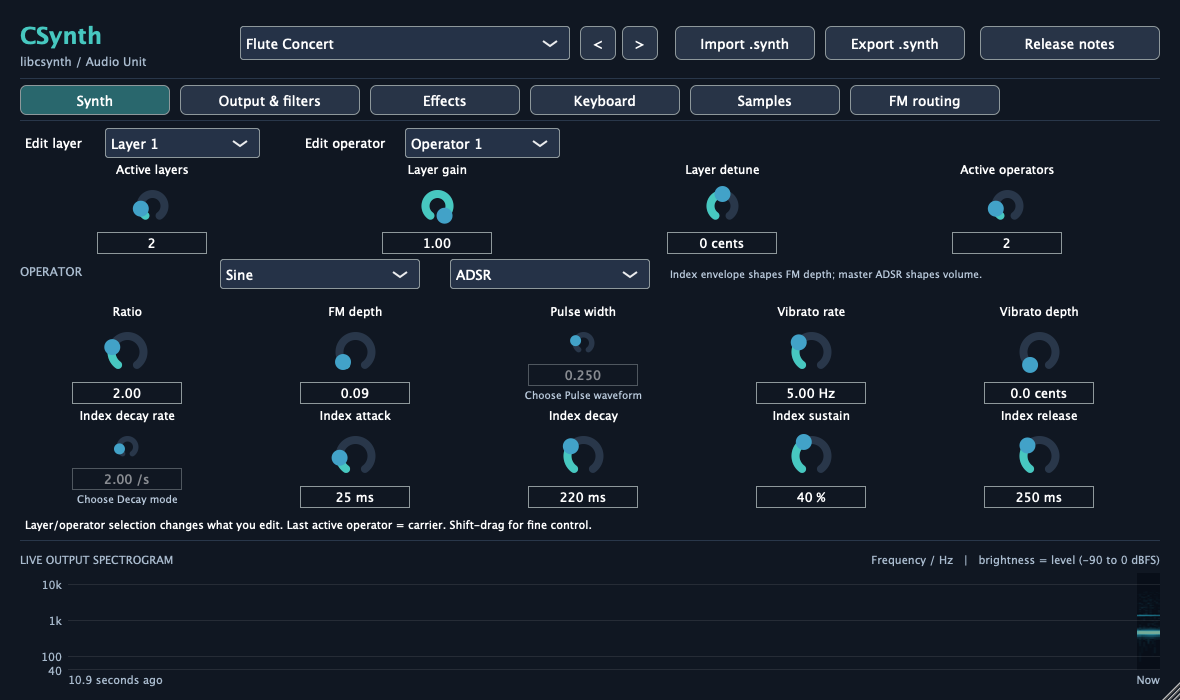
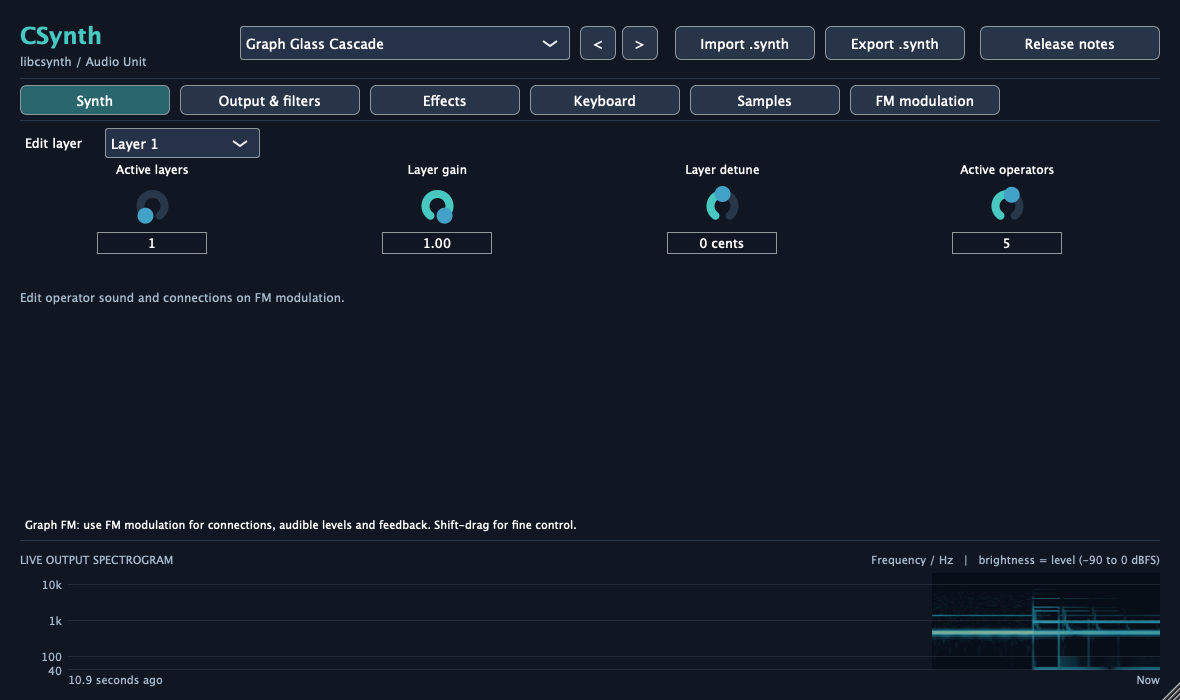
fm mod to new section

diff --git a/Source/PluginEditor.cpp b/Source/PluginEditor.cpp
@@ -75,7 +75,7 @@ CSynthEditor::CSynthEditor(CSynthProcessor& p)
     release.onClick=[this] { synthProcessor.releaseAllNotes(); };
     for (int i=0;i<8;++i) { layer.addItem("Layer "+juce::String(i+1),i+1); op.addItem("Operator "+juce::String(i+1),i+1); }
     layer.setSelectedId(1,juce::dontSendNotification); op.setSelectedId(1,juce::dontSendNotification);
-    layer.onChange=[this] { bindSelection(); }; op.onChange=[this] { bindSelection(); };
+    layer.onChange=[this] { routingLayer.setSelectedId(layer.getSelectedId(),juce::dontSendNotification); bindRouting(); }; op.onChange=[this] { bindSelection(); };
     waveform.addItemList({"Sine","Square","Triangle","Saw","Pulse","Noise"},1);
     envelope.addItemList({"Sustain","Decay","ADSR"},1);
     echoTiming.setName("Echo timing");
@@ -105,7 +105,7 @@ CSynthEditor::CSynthEditor(CSynthProcessor& p)
     status.setFont(juce::FontOptions(13.0f));
     envelopeAvailability.setFont(juce::FontOptions(12.0f));
     envelopeAvailability.setColour(juce::Label::textColourId,juce::Colour(0xffb9c9db));
-    for (int i=0;i<8;++i) { routingLayer.addItem("Layer "+juce::String(i+1),i+1); routingOp.addItem("Destination OP"+juce::String(i+1),i+1); }
+    for (int i=0;i<8;++i) { routingLayer.addItem("Layer "+juce::String(i+1),i+1); routingOp.addItem("Operator "+juce::String(i+1),i+1); }
     for (int i=0;i<FM_ALGORITHM_COUNT;++i) algorithm.addItem(fmAlgorithmName(static_cast<FmAlgorithm>(i)),i+1);
     routingLayer.setSelectedId(1,juce::dontSendNotification); routingOp.setSelectedId(2,juce::dontSendNotification);
     routingLayer.setName("Routing layer"); routingOp.setName("Routing destination"); algorithm.setName("FM algorithm");
@@ -113,8 +113,14 @@ CSynthEditor::CSynthEditor(CSynthProcessor& p)
     routingLayer.onChange=[this] { bindRouting(); }; routingOp.onChange=[this] { bindRouting(); };
     make(routingKnobs,"Audible output",""); make(routingKnobs,"Feedback","");
     for (int i=0;i<7;++i) make(routingKnobs,("From OP"+juce::String(i+1)).toRawUTF8(),"");
+    addAndMakeVisible(modulationViewport);
+    modulationViewport.setViewedComponent(&modulationContent,false);
+    modulationViewport.setScrollBarsShown(true,false);
+    for (auto* c : std::initializer_list<juce::Component*>{&routingInfo,&routingDiagram,&waveform,&envelope,&envelopeAvailability,&operatorLabel})
+        modulationContent.addAndMakeVisible(c);
+    for (auto& knob : routingKnobs) modulationContent.addAndMakeVisible(*knob);
+    for (auto& knob : operatorKnobs) modulationContent.addAndMakeVisible(*knob);
     bindRouting();
-    bindSelection();
     setResizable(true,true); setResizeLimits(1000,650,1600,900); setSize(1180,700);
     showPage(0);
     startTimerHz(15);
@@ -139,7 +145,9 @@ void CSynthEditor::bindRouting()
         if (i<d) knob.bind(synthProcessor.state,parameters::layerId(l,"route_"+juce::String(i)+"_"+juce::String(d)));
         else { knob.attachment.reset(); knob.slider.setRange(0,1,.001); knob.slider.setValue(0,juce::dontSendNotification); }
     }
-    timerCallback();
+    layer.setSelectedId(l+1,juce::dontSendNotification);
+    op.setSelectedId(d+1,juce::dontSendNotification);
+    bindSelection();
 }
 void CSynthEditor::bindSelection()
 {
@@ -166,7 +174,7 @@ void CSynthEditor::timerCallback()
     int mode=config.layers[l].fm.operators[o].indexMode;
     const bool carrier=o<fm.operatorCount && topology.outputLevels[o]>0;
     const juce::String roleReason=modulator ? "" : o<fm.operatorCount ? "No modulation from this OP" : "Inactive operator";
-    const juce::String roleHelp="FM depth scales outgoing connections. Index envelopes shape outgoing modulation and self-feedback. Add a connection in FM routing or raise Feedback to enable the index envelope. Use master ADSR for volume.";
+    const juce::String roleHelp="FM depth scales outgoing connections. Index envelopes shape outgoing modulation and self-feedback. Add a connection in FM modulation or raise Feedback to enable the index envelope. Use master ADSR for volume.";
     operatorKnobs[1]->setAvailability(outgoing ? "" : "No outgoing routes",roleHelp);
     envelope.setEnabled(modulator);
     envelope.setTooltip(modulator ? "Modulator envelopes shape timbre. Master ADSR controls volume." : roleHelp);
@@ -238,7 +246,7 @@ void CSynthEditor::timerCallback()
     bool active=l<config.layerCount && o<config.layers[l].fm.operatorCount;
     status.setText(!synthProcessor.engineReady() ? "Audio engine isn't running. In Standalone, choose an audio output in Options." :
         sampled ? "Sample source active. Master ADSR, filters and effects work on your recordings; FM operator controls are inactive." :
-        fm.algorithm!=FM_ALGORITHM_CHAIN ? "Graph FM: use FM routing for connections, audible levels and feedback. Shift-drag for fine control." :
+        fm.algorithm!=FM_ALGORITHM_CHAIN ? "Graph FM: use FM modulation for connections, audible levels and feedback. Shift-drag for fine control." :
         active ? "Layer/operator selection changes what you edit. Last active operator = carrier. Shift-drag for fine control." :
                  "This slot is inactive. Increase the layer/operator counts to hear it; its settings are still saved.",juce::dontSendNotification);
 }
@@ -284,9 +292,11 @@ void CSynthEditor::showPage(int page)
     for (auto& knob : effectKnobs) knob->setVisible(page==2);
     echoTiming.setVisible(page==2); echoTimingInfo.setVisible(page==2);
     for (auto& knob : layerKnobs) knob->setVisible(page==0);
-    for (auto& knob : operatorKnobs) knob->setVisible(page==0);
-    for (auto* component : std::initializer_list<juce::Component*>{&layer,&op,&waveform,&envelope,&layerLabel,&operatorLabel,&envelopeAvailability})
-        component->setVisible(page==0);
+    for (auto& knob : operatorKnobs) knob->setVisible(page==5);
+    modulationViewport.setVisible(page==5);
+    for (auto* component : std::initializer_list<juce::Component*>{&layer,&layerLabel}) component->setVisible(page==0);
+    op.setVisible(false);
+    for (auto* component : std::initializer_list<juce::Component*>{&waveform,&envelope,&operatorLabel,&envelopeAvailability}) component->setVisible(page==5);
     resized(); repaint();
 }
 void CSynthEditor::paint(juce::Graphics& g)
@@ -298,7 +308,7 @@ void CSynthEditor::paint(juce::Graphics& g)
     g.drawText("CSynth",20,17,200,35,juce::Justification::centredLeft);
     g.setColour(juce::Colour(0xffa9bbce)); g.setFont(juce::FontOptions(14.0f));
     g.drawText("libcsynth / Audio Unit",20,50,210,22,juce::Justification::centredLeft);
-    if (currentPage==0) g.drawText("OPERATOR",20,259,160,25,juce::Justification::centredLeft);
+    if (currentPage==0) g.drawText("Edit operator sound and connections on FM modulation.",20,285,1140,25,juce::Justification::centredLeft);
     if (currentPage==1) {
         g.drawText("MASTER ADSR",20,130,500,22,juce::Justification::centredLeft);
         g.drawText("FILTERS / OUTPUT",20,295,500,22,juce::Justification::centredLeft);
@@ -310,8 +320,8 @@ void CSynthEditor::paint(juce::Graphics& g)
         g.drawText("Raise Echo mix or Reverb mix to hear the effect. Changes apply while playing.",20,470,1140,25,juce::Justification::centredLeft);
     }
     if (currentPage==5) {
-        g.drawText("ALGORITHM / SELECT DESTINATION",20,126,500,22,juce::Justification::centredLeft);
-        g.drawText("White border selects controls. Connections use source FM depth; master ADSR shapes volume.",20,484,1140,25,juce::Justification::centredLeft);
+
+        g.drawText("Click an operator to edit it. Scroll down for waveform, FM depth, vibrato and index envelope.",20,484,1140,25,juce::Justification::centredLeft);
     }
     if (currentPage==3) {
         g.drawText("PLAY WITH THE MOUSE",20,130,500,22,juce::Justification::centredLeft);
@@ -331,20 +341,27 @@ void CSynthEditor::resized()
     place(echoTiming,300,126,235,30); place(echoTimingInfo,545,126,615,30);
     place(synthTab,20,85,150,30); place(outputTab,180,85,180,30); place(effectsTab,370,85,150,30); place(keyboardTab,530,85,150,30);
     place(samplesTab,690,85,150,30); place(routingTab,850,85,150,30);
-    place(algorithm,20,151,320,30); place(routingLayer,360,151,180,30); place(routingOp,560,151,240,30);
-    place(routingDiagram,20,188,820,190);
-    for (int i=0;i<2;++i) place(*routingKnobs[static_cast<std::size_t>(i)],850+i*155,188,150,114);
-    for (int i=2;i<9;++i) place(*routingKnobs[static_cast<std::size_t>(i)],20+(i-2)*163,382,158,100);
-    place(routingInfo,850,306,310,72); place(samplePanel,20,130,1140,365);
+    place(algorithm,20,130,320,30); place(routingLayer,360,130,180,30); place(routingOp,560,130,240,30);
+    place(modulationViewport,20,168,1140,310);
+    const float scale=(modulationViewport.getWidth()-modulationViewport.getScrollBarThickness())/1140.0f;
+    modulationContent.setSize(juce::roundToInt(1140*scale),juce::roundToInt(610*scale));
+    auto fmPlace=[scale](juce::Component& c,int x,int y,int w,int h) {
+        c.setBounds(juce::roundToInt(x*scale),juce::roundToInt(y*scale),juce::roundToInt(w*scale),juce::roundToInt(h*scale));
+    };
+    fmPlace(routingDiagram,0,0,820,190);
+    for (int i=0;i<2;++i) fmPlace(*routingKnobs[static_cast<std::size_t>(i)],830+i*155,0,150,114);
+    for (int i=2;i<9;++i) fmPlace(*routingKnobs[static_cast<std::size_t>(i)],(i-2)*163,194,158,100);
+    fmPlace(routingInfo,830,118,310,72);
+    fmPlace(operatorLabel,0,305,200,25);
+    fmPlace(waveform,205,305,200,30); fmPlace(envelope,420,305,200,30);
+    fmPlace(envelopeAvailability,0,342,1140,28);
+    for (int i=0;i<10;++i) fmPlace(*operatorKnobs[static_cast<std::size_t>(i)],(i%5)*228,380+(i/5)*104,215,104);
+    place(samplePanel,20,130,1140,365);
     place(keyboard,20,180,1140,140); keyboard.setKeyWidth(keyboard.getWidth()/36.0f);
     for (int i=0;i<4;++i) place(*globalKnobs[static_cast<std::size_t>(i)],20+i*285,160,265,120);
     for (int i=4;i<7;++i) place(*globalKnobs[static_cast<std::size_t>(i)],20+(i-4)*380,325,360,120);
     for (int i=0;i<6;++i) place(*effectKnobs[static_cast<std::size_t>(i)],20+(i%3)*380,160+(i/3)*165,360,120);
     place(layerLabel,20,128,85,30); place(layer,105,128,155,30);
-    place(operatorLabel,300,128,100,30); place(op,405,128,155,30);
     for (int i=0;i<4;++i) place(*layerKnobs[static_cast<std::size_t>(i)],20+i*285,158,265,96);
-    place(waveform,220,259,200,30); place(envelope,450,259,200,30);
-    place(envelopeAvailability,665,259,495,30);
-    for (int i=0;i<10;++i) place(*operatorKnobs[static_cast<std::size_t>(i)],20+(i%5)*228,300+(i/5)*104,215,104);
     place(status,20,510,1140,28); place(spectrogram,20,548,1140,140);
 }

diff --git a/tests/ProcessorTests.cpp b/tests/ProcessorTests.cpp
@@ -25,6 +25,16 @@ struct TestPlayHead : juce::AudioPlayHead {
     PositionInfo position;
     juce::Optional<PositionInfo> getPosition() const override { return position; }
 };
+static std::vector<juce::Component*> descendants(juce::Component& parent)
+{
+    std::vector<juce::Component*> result;
+    for (auto* child : parent.getChildren()) {
+        result.push_back(child);
+        auto nested=descendants(*child);
+        result.insert(result.end(),nested.begin(),nested.end());
+    }
+    return result;
+}
 static void graphState()
 {
     CSynthProcessor processor;
@@ -47,21 +57,27 @@ static void graphState()
     std::unique_ptr<juce::AudioProcessorEditor> editor(processor.createEditor());
     for (auto* child : editor->getChildren())
         if (auto* button=dynamic_cast<juce::TextButton*>(child))
-            if (button->getButtonText()=="FM routing") { button->onClick(); CHECK(button->getToggleState()); }
+            if (button->getButtonText()=="FM modulation") { button->onClick(); CHECK(button->getToggleState()); }
     juce::Thread::sleep(80); juce::Timer::callPendingTimersSynchronously();
     for (auto* child : editor->getChildren()) if (child->isVisible()) CHECK(editor->getLocalBounds().contains(child->getBounds()));
     for (auto* child : editor->getChildren())
         if (auto* combo=dynamic_cast<juce::ComboBox*>(child))
             if (combo->getName()=="Routing destination") combo->setSelectedId(4,juce::sendNotificationSync);
     bool routeEdited=false;
-    for (auto* child : editor->getChildren()) if (child->getName()=="From OP1")
+    for (auto* child : descendants(*editor)) if (child->getName()=="From OP1")
         for (auto* control : child->getChildren()) if (auto* slider=dynamic_cast<juce::Slider*>(control)) {
             CHECK(slider->isEnabled()); slider->setValue(.4,juce::sendNotificationSync); routeEdited=true;
         }
+    bool ratioEdited=false;
+    for (auto* knob : descendants(*editor)) if (knob->getName()=="Ratio")
+        for (auto* control : knob->getChildren()) if (auto* slider=dynamic_cast<juce::Slider*>(control)) {
+            CHECK(knob->isVisible()); slider->setValue(2.5,juce::sendNotificationSync); ratioEdited=true;
+        }
+    CHECK(ratioEdited && std::abs(processor.readConfig().layers[0].fm.operators[3].ratio-2.5)<1e-5);
     CHECK(routeEdited && std::abs(processor.readConfig().layers[0].fm.routing[0][3]-.4)<1e-5);
     processor.setCurrentProgram(64); set(processor,"l0_o3_output",0);
     juce::Thread::sleep(80); juce::Timer::callPendingTimersSynchronously();
-    for (auto* child : editor->getChildren()) if (child->getName()=="Audible output")
+    for (auto* child : descendants(*editor)) if (child->getName()=="Audible output")
         for (auto* control : child->getChildren()) if (auto* slider=dynamic_cast<juce::Slider*>(control))
             CHECK(slider->isEnabled()); // A muted carrier must still be editable.
     processor.prepareToPlay(48000,512); juce::AudioBuffer<float> out(2,512); juce::MidiBuffer midi;
@@ -277,7 +293,7 @@ int main()
             CHECK(juce::PNGImageFormat().writeImageToStream(snapshot,output));
         }
         CHECK(editor->getHeight()==700);
-        for (const auto& pageName : {"Output & filters","Effects","Keyboard","Samples","FM routing","Synth"}) {
+        for (const auto& pageName : {"Output & filters","Effects","Keyboard","Samples","FM modulation","Synth"}) {
             bool selected=false;
             for (auto* child : editor->getChildren())
                 if (auto* button=dynamic_cast<juce::TextButton*>(child))
@@ -334,12 +350,13 @@ int main()
                     CHECK(juce::PNGImageFormat().writeImageToStream(image,output));
                 }
             }
+            for (auto* knob : descendants(*editor)) if (knob->getName()=="Ratio")
+                CHECK(knob->isVisible()==(juce::String(pageName)=="FM modulation"));
             for (auto* child : editor->getChildren()) {
                 if (dynamic_cast<juce::MidiKeyboardComponent*>(child)!=nullptr) CHECK(child->isVisible()==(juce::String(pageName)=="Keyboard"));
                 if (child->isVisible()) CHECK(editor->getLocalBounds().contains(child->getBounds()));
                 if (child->getName()=="Low-pass") CHECK(child->isVisible()==(juce::String(pageName)=="Output & filters"));
                 if (child->getName()=="Echo mix") CHECK(child->isVisible()==(juce::String(pageName)=="Effects"));
-                if (child->getName()=="Ratio") CHECK(child->isVisible()==(juce::String(pageName)=="Synth"));
             }
         }
         editor.reset(); CHECK(!a.spectrumTap.enabled.load()); a.releaseResources(); b.releaseResources();

diff --git a/tools/CaptureEditor.cpp b/tools/CaptureEditor.cpp
@@ -66,11 +66,15 @@ int main(int argc,char** argv)
         // The real editor must update when the host selects a different preset.
         processor.setCurrentProgram(64);
         parameter(processor,"l0_o1_feedback",.15f);
-        capture("FM routing","routing.png");
+        capture("FM modulation","routing.png");
         RoutingDiagram* live=nullptr;
         juce::ComboBox* destination=nullptr;
+        std::function<void(juce::Component*)> findGraph=[&](juce::Component* parent) {
+            if (auto* graph=dynamic_cast<RoutingDiagram*>(parent)) live=graph;
+            for (auto* child : parent->getChildren()) findGraph(child);
+        };
+        findGraph(editor.get());
         for (auto* child : editor->getChildren()) {
-            if (auto* graph=dynamic_cast<RoutingDiagram*>(child)) live=graph;
             if (auto* combo=dynamic_cast<juce::ComboBox*>(child))
                 if (combo->getName()=="Routing destination") destination=combo;
         }
@@ -87,7 +91,23 @@ int main(int argc,char** argv)
         require(changed,"Diagram did not follow preset change");
         parameter(processor,"l0_o2_feedback",.3f);
         live->onSelect(2);
-        capture("FM routing","routing.png");
+        capture("FM modulation","routing.png");
+        auto* content=live->getParentComponent();
+        juce::Slider* ratio=nullptr;
+        for (auto* knob : content->getChildren()) if (knob->getName()=="Ratio")
+            for (auto* child : knob->getChildren()) if (auto* slider=dynamic_cast<juce::Slider*>(child)) ratio=slider;
+        require(ratio && ratio->isVisible(),"Operator controls missing from modulation panel");
+        const double original=ratio->getValue();
+        ratio->setValue(2.5,juce::sendNotificationSync);
+        require(std::abs(processor.readConfig().layers[0].fm.operators[2].ratio-2.5)<.001,"Diagram selection did not bind operator sound controls");
+        ratio->setValue(original,juce::sendNotificationSync);
+        auto* viewport=dynamic_cast<juce::Viewport*>(content->getParentComponent()->getParentComponent());
+        require(viewport!=nullptr,"Modulation panel must scroll");
+        viewport->setViewPosition(0,content->getHeight());
+        capture("FM modulation","modulation.png");
+        viewport->setViewPosition(0,0);
+        capture("Synth","editor.png");
+        require(!ratio->getParentComponent()->isVisible(),"Operator controls still shown on Synth tab");
         processor.releaseAllNotes(); advance();
         std::vector<CSynthProcessor::SampleFile> files;
         for (int octave=3;octave<=5;++octave) {

diff --git a/Source/PluginEditor.h b/Source/PluginEditor.h
@@ -30,10 +30,12 @@ private:
     juce::ComboBox presets, layer, op, waveform, envelope, echoTiming;
     juce::TextButton previous{"<"}, next{">"}, import{"Import .synth"}, exportSound{"Export .synth"}, release{"Release notes"};
     juce::Label layerLabel, operatorLabel, status, envelopeAvailability, echoTimingInfo;
-    juce::TextButton synthTab{"Synth"}, outputTab{"Output & filters"}, effectsTab{"Effects"}, keyboardTab{"Keyboard"}, samplesTab{"Samples"}, routingTab{"FM routing"};
+    juce::TextButton synthTab{"Synth"}, outputTab{"Output & filters"}, effectsTab{"Effects"}, keyboardTab{"Keyboard"}, samplesTab{"Samples"}, routingTab{"FM modulation"};
     juce::ComboBox algorithm, routingLayer, routingOp;
     juce::Label routingInfo;
     RoutingDiagram routingDiagram;
+    juce::Component modulationContent;
+    juce::Viewport modulationViewport;
     std::vector<std::unique_ptr<Knob>> routingKnobs;
     std::unique_ptr<juce::AudioProcessorValueTreeState::ComboBoxAttachment> algorithmAttachment;
     SamplePanel samplePanel;

diff --git a/README.md b/README.md
@@ -11,7 +11,7 @@ sounds without a DAW. There is no SDL dependency in this project: Logic supplies
 the audio device and MIDI, JUCE supplies the plugin wrapper/editor, and
 libcsynth renders the samples.
 
-![Synth tab: FM layers and operators, factory preset controls, and live output spectrogram](docs/editor.png)
+![Synth tab: layer controls, factory preset controls, and live output spectrogram](docs/editor.png)
 
 The screenshots below come from the current editor at its default 1,180 × 700
 size. The Samples view uses the three piano recordings described below; all
@@ -86,7 +86,7 @@ git commit -m "Update libcsynth"
 ```
 
 Build and test afterward, then commit the changed submodule pointer. The current
-revision includes filters, samples, graph FM routing and the refreshed factory bank.
+revision includes filters, samples, graph FM modulation and the refreshed factory bank.
 
 The first full build takes longer because JUCE is compiled too. Subsequent
 source edits reuse those objects. The build doesn't install anything into your
@@ -231,11 +231,11 @@ The editor is 1,180 × 700 by default and has six tabs:
 
 | Tab | What it controls |
 | --- | --- |
-| **Synth** | Layers, gain/detune, and FM operators. |
+| **Synth** | Active layers/operators and layer gain/detune. |
 | **Output & filters** | Master ADSR, lowpass/highpass cutoffs, and output gain. |
 | **Effects** | Free or tempo-synced echo, plus reverb. |
 | **Keyboard** | An on-screen piano for testing with the mouse. |
-| **FM routing** | Per-layer algorithms, custom incoming connections, audible operator levels, and feedback. |
+| **FM modulation** | Routing diagram, algorithm, waveform, ratio, FM depth, vibrato, index envelopes, output levels, and feedback. |
 | **Samples** | Recording files, their base frequencies, and FM/sample source selection. |
 
 Presets and the live spectrogram stay visible on every tab. Switching tabs
@@ -264,7 +264,8 @@ an effect tail that is already ringing.
 **Echo / Reverb** controls the shared effects for both sources. Choose **Free
 (ms)** for a millisecond delay, or a note division that follows Logic's tempo.
 
-**Edit layer** and **Edit operator** choose which stored slot the controls show.
+**Edit layer** on Synth and the layer/operator selectors on **FM modulation**
+choose which stored slot the controls show.
 They don't change the active counts. Turn up Active layers / Active operators
 to bring more slots into the sound. Inactive slots keep their settings and are
 included in saved state.
@@ -282,7 +283,7 @@ the configured release and effect tails still finish normally.
 Disabled operator controls show a reason below the knob. For example, pulse
 width asks you to choose Pulse, and index-envelope knobs ask for Decay or ADSR
 mode. An operator with no outgoing route has no FM depth to edit. Add a route or
-feedback to use its index envelope; see FM routing below. Hover a control’s label or
+feedback to use its index envelope; see FM modulation below. Hover a control’s label or
 reason for the full explanation. These hints update when you change the selected
 operator, waveform, envelope mode, preset, or source. In sample mode, FM-only
 controls say **Sample source: FM only**; master ADSR, filters, effects, and
@@ -322,7 +323,7 @@ exists. FFTs and drawing run on the UI thread, and closing the editor disables
 capture. If the UI falls behind, visualization data is discarded; audio never
 waits for the display. The spectrogram is not stored with your patch.
 
-## FM routing
+## FM modulation
 
 The diagram follows the selected preset and layer: blue arrows show modulation,
 gold paths show operators feeding the audio mix, and pink loops show self-feedback.
@@ -331,7 +332,7 @@ show what you are editing. Changing presets, algorithms, operator counts, routin
 output levels or feedback updates the diagram, including changes from automation.
 In sample mode it labels the FM graph as inactive.
 
-Open **FM routing**, choose a layer and destination operator, then choose an
+Open **FM modulation**, choose a layer and operator, then choose an
 algorithm. Active layers/operators are still set on **Synth**.
 
 - **Serial chain** keeps the original sound: OP1 → OP2 → … → the last carrier.
@@ -363,7 +364,11 @@ Bell**, **Graph Hollow Reed**, **Graph Air Choir**, **Graph Feedback Bass**,
 **Graph Glass Cascade**, **Graph Drawbar Organ**, and **Graph Orbit Texture**.
 The previous 64 preset indices are preserved.
 
-![FM routing tab with parallel stacks and feedback](docs/routing.png)
+![FM modulation: interactive operator graph and connection controls](docs/routing.png)
+
+Scroll within the same tab to edit the selected operator's sound:
+
+![FM modulation: waveform, vibrato, FM depth and index envelope](docs/modulation.png)
 
 ## Sample instruments
 
@@ -511,7 +516,7 @@ in other projects.
 
 **Import .synth** reads settings saved by the SDL app or libcsynth. Version 1
 files load with filters off; version 2 includes filter cutoffs; version 3 adds
-FM routing, carrier levels, and feedback. Export writes v3, so older library
+FM modulation, carrier levels, and feedback. Export writes v3, so older library
 builds need updating to read these files. Values beyond
 this plugin's parameter ranges are clamped to the supported range.
 
@@ -648,3 +653,9 @@ It writes `editor.png`, `output.png`, `effects.png`, `keyboard.png`, and
 spectrogram. It does not install the plugin or open Logic. The capture tool
 only needs those recordings when generating the Samples view; building the
 plugin itself does not depend on these particular piano files.
+
+Operator waveform, ratio, FM depth, vibrato and index envelopes live on
+**FM modulation**, alongside the diagram and connection controls. Select a
+layer and operator above the diagram, or click a diagram node. Scroll the panel
+to reach the operator sound controls; the plugin window keeps its compact size.
+**Synth** contains layer counts, gain, detune and active-operator counts.
